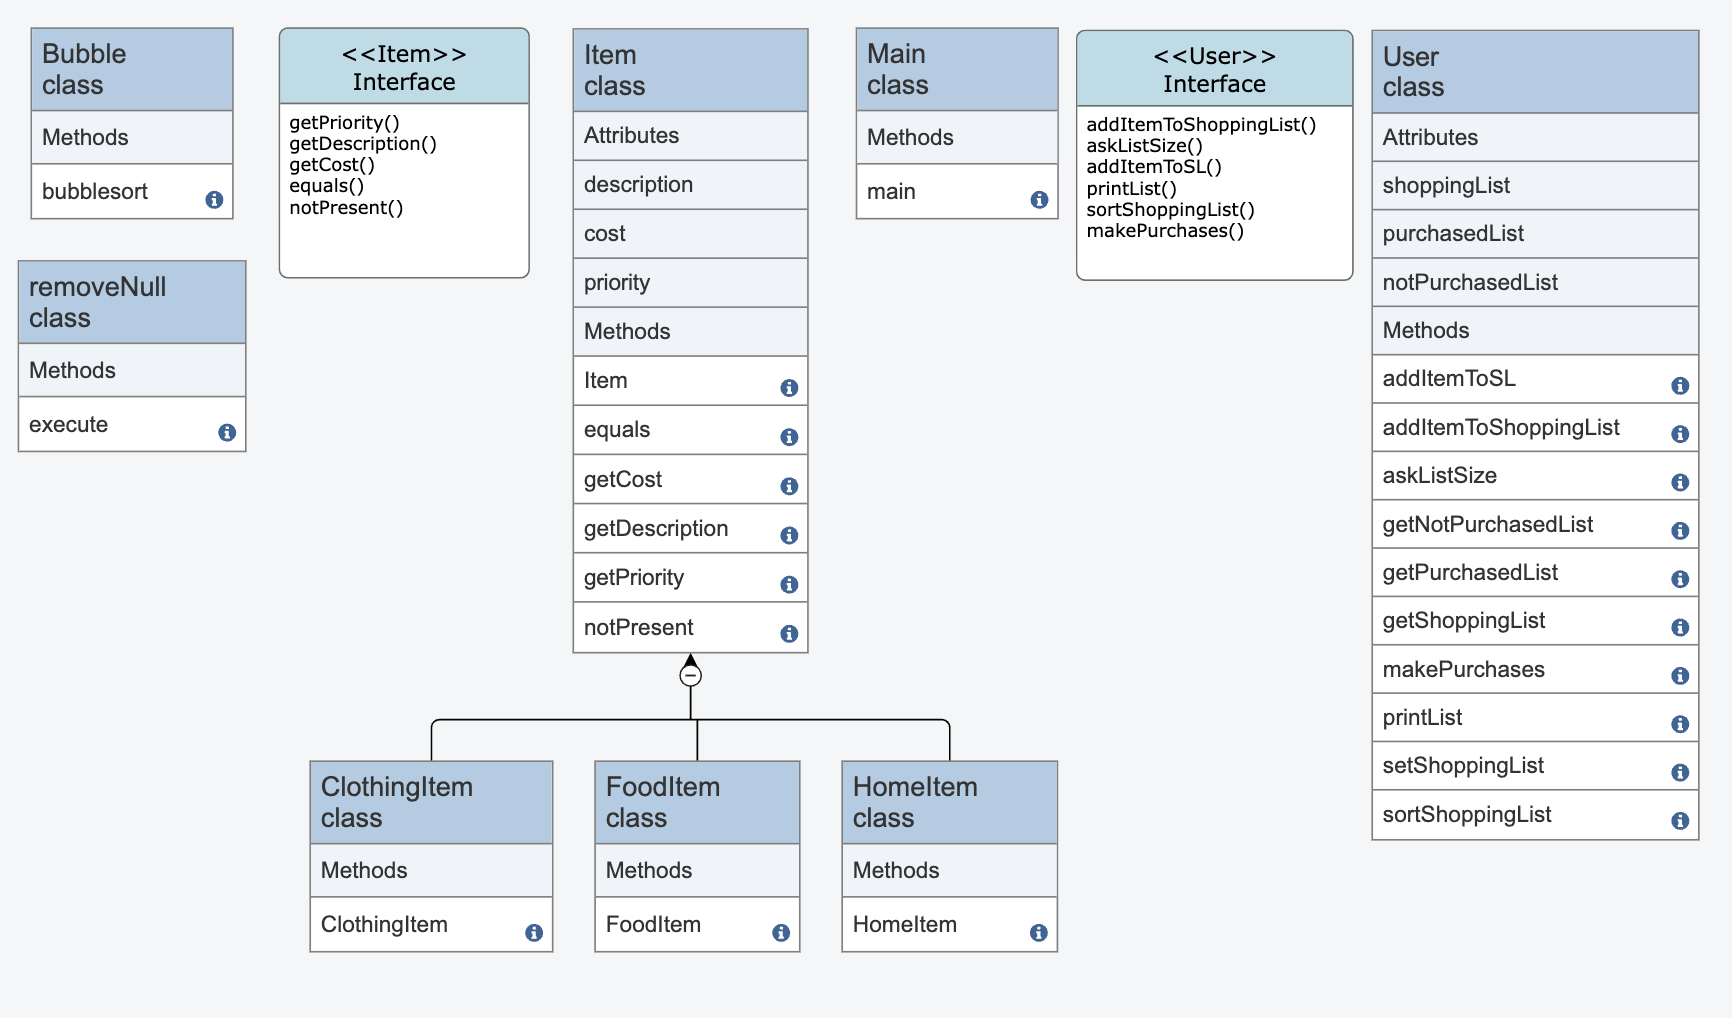
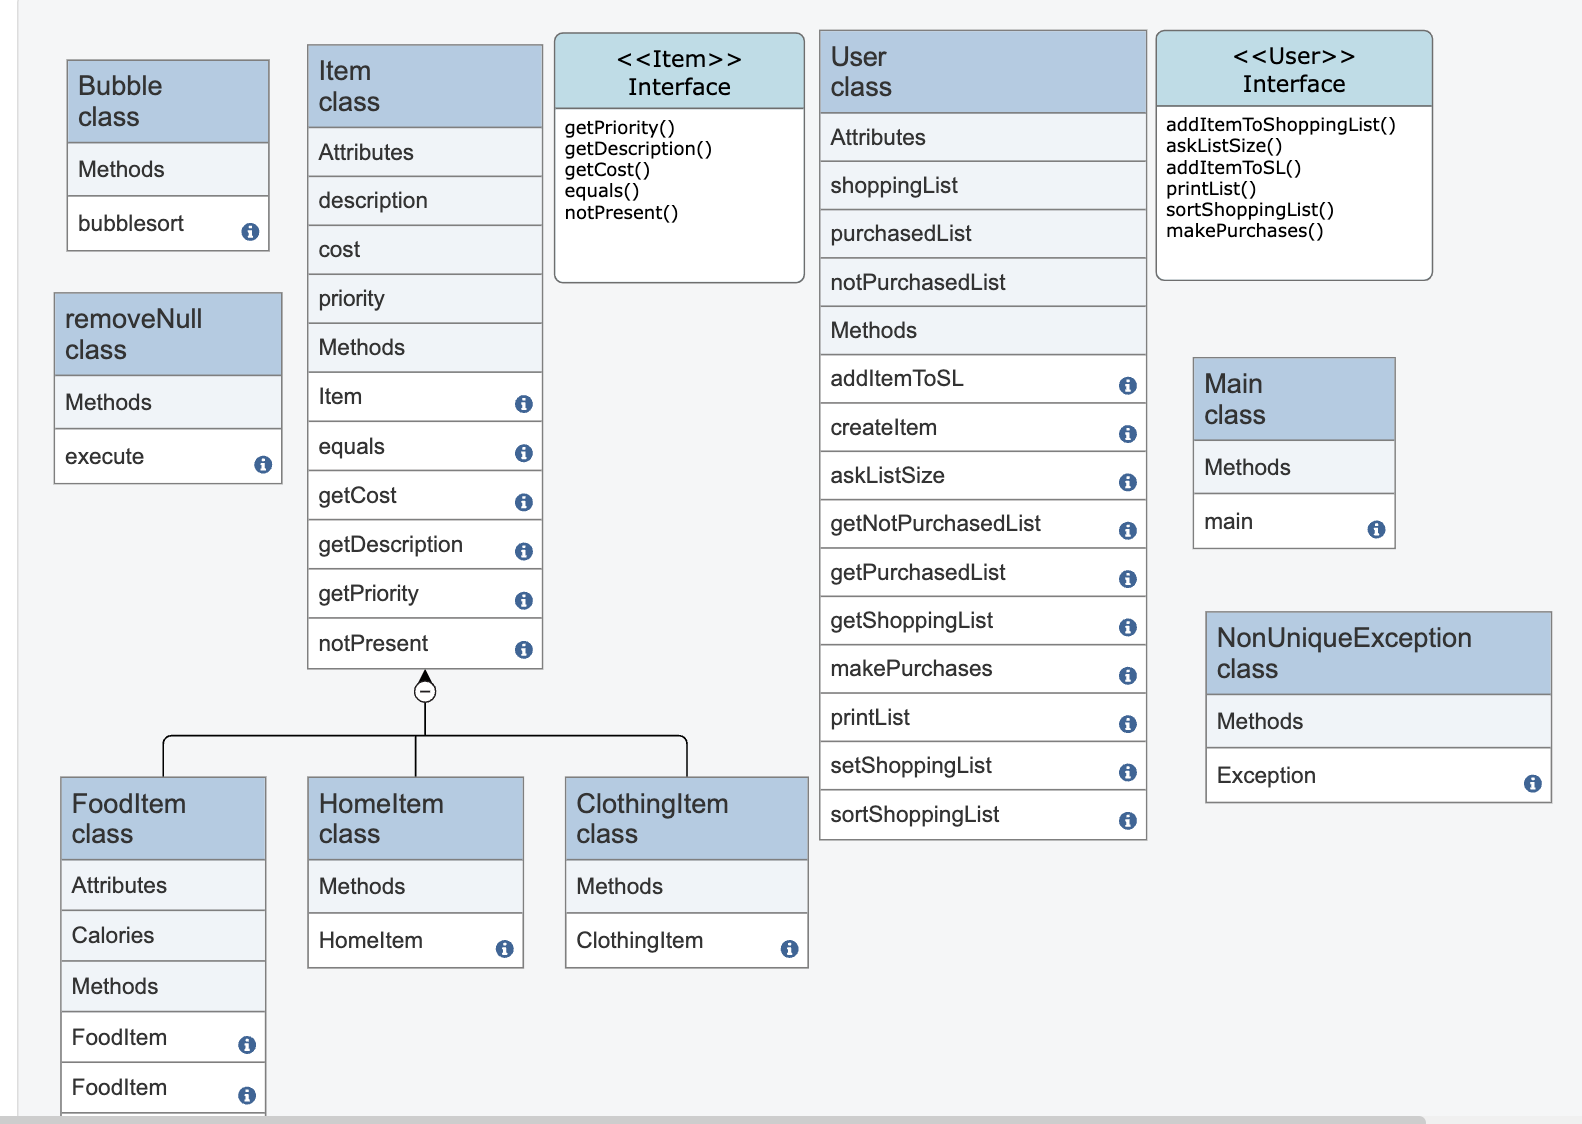
Rework

diff --git a/src/User.java b/src/User.java
@@ -52,7 +52,7 @@ public class User implements UserInterface {
     }
 
     // Method to add an item to the shopping list
-    public boolean addItemToShoppingList() {
+    public Item createItem() {
         // Scanner for user input
         Scanner scanner = new Scanner(System.in);
 
@@ -74,6 +74,7 @@ public class User implements UserInterface {
             }
         }
         while (!validCategory);
+
 
 
         // Get item description from the user
@@ -106,25 +107,41 @@ public class User implements UserInterface {
             }
         }
 
+        String calories = null;
+        boolean calories_bool = false;
+        if (categoryEntry.equalsIgnoreCase("food")){
+            System.out.println("would you like to enter calories for " + description + "(Y/N)");
+            if (scanner.nextLine().equalsIgnoreCase("Y")){
+                calories_bool = true;
+                System.out.println("Please enter the calories for your item:");
+                calories = scanner.nextLine();
+            }
+
+        }
+
         // Create the appropriate item based on the category and add it to the shopping list
         switch (categoryEntry) {
             case "home":
-                addItemToSL(new HomeItem(description, priority, cost));
-                return true;
+                return new HomeItem(description, priority, cost);
+
             case "food":
-                addItemToSL(new FoodItem(description, priority, cost));
-                return true;
+                if (calories_bool)
+                {
+                    return new FoodItem(description, priority, cost, calories);
+                }
+                else
+                {
+                    return new FoodItem(description, priority, cost);
+                }
             case "clothing":
-                addItemToSL(new ClothingItem(description, priority, cost));
-                return true;
-            default:
-                System.out.println("Incorrect Category");
-                return false;
+                return new ClothingItem(description, priority, cost);
         }
+        return null;
     }
 
     // Method to add an item to the shopping list
-    public void addItemToSL(Item item){
+    public void addItemToSL(Item item) throws NonUniqueException {
+
         if (item.notPresent(shoppingList)) {
             for (int j = 0; j < shoppingList.length; j++) {
                 if (shoppingList[j] == null) {
@@ -137,6 +154,7 @@ public class User implements UserInterface {
         }
         else{
             System.out.println("You have entered a non-unique item. Please try again.");
+            throw new NonUniqueException();
         }
     }
 
@@ -147,12 +165,20 @@ public class User implements UserInterface {
         System.out.println("------------------------------------------------");
 
         // Iterate through the list and print each item
+        String descColumn;
         for (Item i : list) {
             if (i != null) {
                 String blank = " ";
                 // Format and print each column of the item
                 String categoryColumn = blank + String.valueOf(i.getClass()).split(" ")[1] + blank.repeat(12 - String.valueOf(i.getClass()).split(" ")[1].length());
-                String descColumn = blank + i.getDescription() + blank.repeat(12 - i.getDescription().length());
+                if (i.getClass() == FoodItem.class){
+                    String desc_cal = i.getDescription()+ "("+ ((FoodItem) i).getCalories() + ")";
+                    descColumn = blank + desc_cal + blank.repeat(12 - desc_cal.length());
+
+                }
+                else {
+                    descColumn = blank + i.getDescription() + blank.repeat(12 - i.getDescription().length());
+                }
                 String priorColumn = blank.repeat(5) + i.getPriority() + blank.repeat(7 - Double.toString(i.getPriority()).length());
                 String costColumn = blank.repeat(1) + df.format(i.getCost()) + blank.repeat(5 - Double.toString(i.getCost()).length());
 
@@ -164,7 +190,7 @@ public class User implements UserInterface {
     // Method to sort the shopping list using bubble sort
     public void sortShoppingList(){
         Bubble b = new Bubble();
-        shoppingList = b.bubblesort(shoppingList);
+        shoppingList = b.bubbleSort(shoppingList);
     }
 
     // Method to make purchases based on a given budget

diff --git a/src/Main.java b/src/Main.java
@@ -15,8 +15,12 @@ public class Main {
         // Adding items to the list
         while (itemsToAdd > 0) {
             // If the user successfully adds an item, decrement the itemsToAdd counter
-            if (user.addItemToShoppingList()) {
+            try {
+                user.addItemToSL(user.createItem());
                 itemsToAdd--;
+                }
+            catch (Exception NonUniqueException){
+                System.out.println("Non-unique item please enter a new one!");
             }
         }
 

diff --git a/src/FoodItem.java b/src/FoodItem.java
@@ -1,9 +1,15 @@
 public class FoodItem extends Item {
 
-//    private int calories;
+    private final String calories;
     public FoodItem(String description, int priority, double cost) {
         super(description, priority, cost);
+        calories = "";
     }
 
+    public FoodItem(String description, int priority, double cost, String calories){
+        super(description, priority, cost);
+        this.calories = calories;
+    }
 
+    public String getCalories(){return calories;}
 }

diff --git a/src/UserInterface.java b/src/UserInterface.java
@@ -1,8 +1,9 @@
 public interface UserInterface {
-    boolean addItemToShoppingList();
+    Item createItem();
     int askListSize();
-    void addItemToSL(Item item);
+    void addItemToSL(Item item) throws NonUniqueException;
     void printList(Item[] list);
     void sortShoppingList();
     void makePurchases(double budget);
+
 }

diff --git a/src/Bubble.java b/src/Bubble.java
@@ -1,5 +1,5 @@
 public class Bubble{
-    public Item[] bubblesort(Item[] shoppingList){{
+    public Item[] bubbleSort(Item[] shoppingList){{
                 int n = shoppingList.length;
                 for (int i = 0; i < n - 1; i++)
                     for (int j = 0; j < n - i - 1; j++)

diff --git a/src/NonUniqueException.java b/src/NonUniqueException.java
@@ -1,0 +1,5 @@
+public class NonUniqueException extends Exception{
+
+    public NonUniqueException(){}
+
+}
